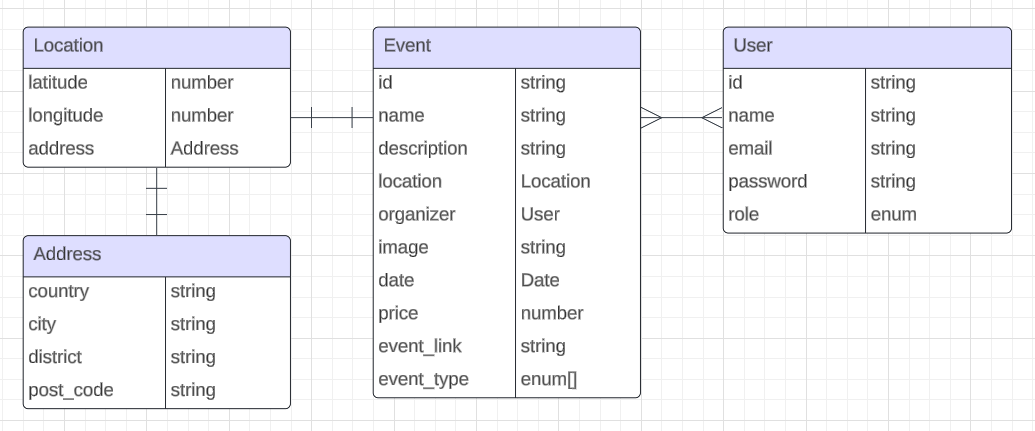
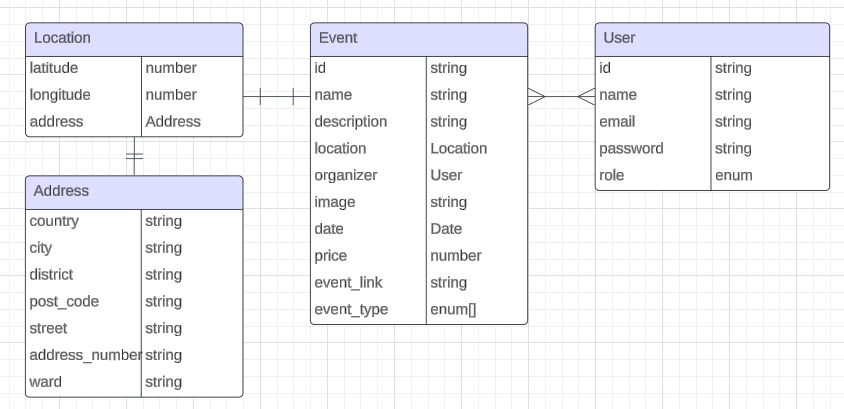
Update: - Relationship between address and location in Mongoose model - Address filed: street, address_number, ward

diff --git a/src/services/locationService.ts b/src/services/locationService.ts
@@ -1,13 +1,35 @@
-import { BadRequestError, NotFoundError } from "../errors/ApiError";
+import {
+  BadRequestError,
+  NotFoundError,
+  InternalServerError,
+} from "../errors/ApiError";
 import { ILocation } from "../interfaces/ILocation";
+import { AddressModel } from "../models/address";
 import { LocationModel } from "../models/location";
+import mongoose from "mongoose";
 
 const createLocation = async (locationData: ILocation): Promise<ILocation> => {
-  return await locationData.save();
+  try {
+    if (!mongoose.Types.ObjectId.isValid(locationData.address as string)) {
+      throw new BadRequestError("Invalid Address ID format.");
+    }
+
+    const addressExists = await AddressModel.findById(locationData.address);
+    if (!addressExists) {
+      throw new NotFoundError(
+        `Address with id ${locationData.address} not found.`
+      );
+    }
+    const newLocation = await LocationModel.create(locationData);
+
+    return newLocation.populate("address");
+  } catch (error: any) {
+    throw new InternalServerError("Internal Server Error" + error.message);
+  }
 };
 
 const getAllLocations = async (): Promise<ILocation[]> => {
-  return await LocationModel.find();
+  return await LocationModel.find().populate("address");
 };
 
 const getLocationById = async (id: string): Promise<ILocation> => {
@@ -15,7 +37,7 @@ const getLocationById = async (id: string): Promise<ILocation> => {
     throw new BadRequestError("Location ID is required");
   }
 
-  const foundLocation = await LocationModel.findById(id);
+  const foundLocation = await LocationModel.findById(id).populate("address");
 
   if (!foundLocation) {
     throw new NotFoundError(`Location with id ${id} cannot be found`);
@@ -32,11 +54,22 @@ const updateLocation = async (
     throw new BadRequestError("Location ID is required");
   }
 
+  if (!mongoose.Types.ObjectId.isValid(locationData.address as string)) {
+    throw new BadRequestError("Invalid Address ID format.");
+  }
+
+  const addressExists = await AddressModel.findById(locationData.address);
+  if (!addressExists) {
+    throw new NotFoundError(
+      `Address with ID ${locationData.address} not found.`
+    );
+  }
+
   const updatedLocation = await LocationModel.findByIdAndUpdate(
     id,
     locationData,
     { new: true }
-  );
+  ).populate("address");
 
   if (!updatedLocation) {
     throw new NotFoundError(`Location with ID ${id} not found`);
@@ -50,7 +83,9 @@ const deleteLocation = async (id: string): Promise<ILocation | null> => {
     throw new BadRequestError("Location ID is required");
   }
 
-  const deletedLocation = await LocationModel.findByIdAndDelete(id);
+  const deletedLocation = await LocationModel.findByIdAndDelete(id).populate(
+    "address"
+  );
 
   if (!deletedLocation) {
     throw new NotFoundError(`Location with ID ${id} not found`);

diff --git a/src/models/location.ts b/src/models/location.ts
@@ -1,15 +1,13 @@
 import { Schema, Document, model } from "mongoose";
-import { AddressModel } from "./address";
 import { ILocation } from "../interfaces/ILocation";
 
 const LocationSchema = new Schema<ILocation>({
   latitude: { type: Number, required: true },
   longitude: { type: Number, required: true },
   address: {
-    country: { type: String, required: true },
-    city: { type: String, required: true },
-    district: { type: String },
-    post_code: { type: String, required: true },
+    type: Schema.Types.ObjectId,
+    ref: "Address",
+    required: true,
   },
 });
 

diff --git a/src/controllers/addressController.ts b/src/controllers/addressController.ts
@@ -16,11 +16,16 @@ export const createAddress = async (
   next: NextFunction
 ) => {
   try {
-    const { country, city, district, post_code } = req.body;
+    const { country, city, district, ward, post_code, street, address_number } =
+      req.body;
     const address = new AddressModel({
       country,
       city,
+      district,
+      ward,
       post_code,
+      street,
+      address_number,
     });
 
     const newAddress = await addressService.createAddress(address);

diff --git a/src/models/address.ts b/src/models/address.ts
@@ -5,7 +5,10 @@ const AddressSchema = new Schema<IAddress>({
   country: { type: String, required: true },
   city: { type: String, required: true },
   district: { type: String },
+  ward: { type: String },
   post_code: { type: String, required: true },
+  street: { type: String},
+  address_number: { type: String},
 });
 
 AddressSchema.set("toJSON", {

diff --git a/src/interfaces/IAddress.ts b/src/interfaces/IAddress.ts
@@ -4,5 +4,8 @@ export interface IAddress extends Document {
   country: string;
   city: string;
   district: string;
+  ward: string;
   post_code: string;
+  street: string;
+  address_number: string;
 }

diff --git a/src/interfaces/ILocation.ts b/src/interfaces/ILocation.ts
@@ -4,5 +4,5 @@ import { Document } from "mongoose";
 export interface ILocation extends Document {
   latitude: number;
   longitude: number;
-  address: IAddress;
+  address: IAddress["_id"];
 }

diff --git a/README.md b/README.md
@@ -71,25 +71,25 @@ npm run dev
 
 ## Libraries
 
-| Library                | Purpose                                                                                                     |
-| ---------------------- | ----------------------------------------------------------------------------------------------------------- |
-| **bcrypt**       | Library for hashing and comparing passwords securely.                                                       |
-| **cloudinary**   | A service to manage images and videos in the cloud, used for uploading and manipulating media files.        |
-| **cors**         | Enables Cross-Origin Resource Sharing (CORS) for handling requests from different origins.                  |
-| **dotenv**       | Loads environment variables from a `.env` file into `process.env`.                                      |
-| **express**      | Fast, unopinionated web framework for building RESTful APIs in Node.js.                                     |
-| **jsonwebtoken** | Used to create and verify JSON Web Tokens (JWT) for authentication purposes.                                |
+| Library          | Purpose                                                                                                    |
+| ---------------- | ---------------------------------------------------------------------------------------------------------- |
+| **bcrypt**       | Library for hashing and comparing passwords securely.                                                      |
+| **cloudinary**   | A service to manage images and videos in the cloud, used for uploading and manipulating media files.       |
+| **cors**         | Enables Cross-Origin Resource Sharing (CORS) for handling requests from different origins.                 |
+| **dotenv**       | Loads environment variables from a `.env` file into `process.env`.                                         |
+| **express**      | Fast, unopinionated web framework for building RESTful APIs in Node.js.                                    |
+| **jsonwebtoken** | Used to create and verify JSON Web Tokens (JWT) for authentication purposes.                               |
 | **mongoose**     | ODM (Object Data Modeling) library for MongoDB and Node.js, helps in managing MongoDB schemas and queries. |
-| **multer**       | Middleware for handling `multipart/form-data`, used primarily for file uploads.                           |
-| **nodemailer**   | Library for sending emails from Node.js applications.                                                       |
-| **nodemon**      | Tool that automatically restarts the Node.js application when file changes in the directory are detected.   |
-| **passport**     | Authentication middleware for Node.js, supports various authentication methods (local, OAuth, etc.).        |
-| **uuid**         | Generates universally unique identifiers (UUIDs).                                                           |
-| Sinon                  | For stubbing and mocking (test)                                                                             |
-| Jest                   | JavaScript Testing Framework                                                                                |
-| Supertest              | Testing HTTP endpoints                                                                                      |
-|                        |                                                                                                             |
-|                        |                                                                                                             |
+| **multer**       | Middleware for handling `multipart/form-data`, used primarily for file uploads.                            |
+| **nodemailer**   | Library for sending emails from Node.js applications.                                                      |
+| **nodemon**      | Tool that automatically restarts the Node.js application when file changes in the directory are detected.  |
+| **passport**     | Authentication middleware for Node.js, supports various authentication methods (local, OAuth, etc.).       |
+| **uuid**         | Generates universally unique identifiers (UUIDs).                                                          |
+| Sinon            | For stubbing and mocking (test)                                                                            |
+| Jest             | JavaScript Testing Framework                                                                               |
+| Supertest        | Testing HTTP endpoints                                                                                     |
+|                  |                                                                                                            |
+|                  |                                                                                                            |
 
 ## Database Schema and ERD
 
@@ -123,3 +123,5 @@ This project is organized into various folders and files for better modularity a
 ├── README.md              # Project documentation (this file)
 ├── tsconfig.json          # TypeScript configuration file
 ```
+
+## API Endpoints
